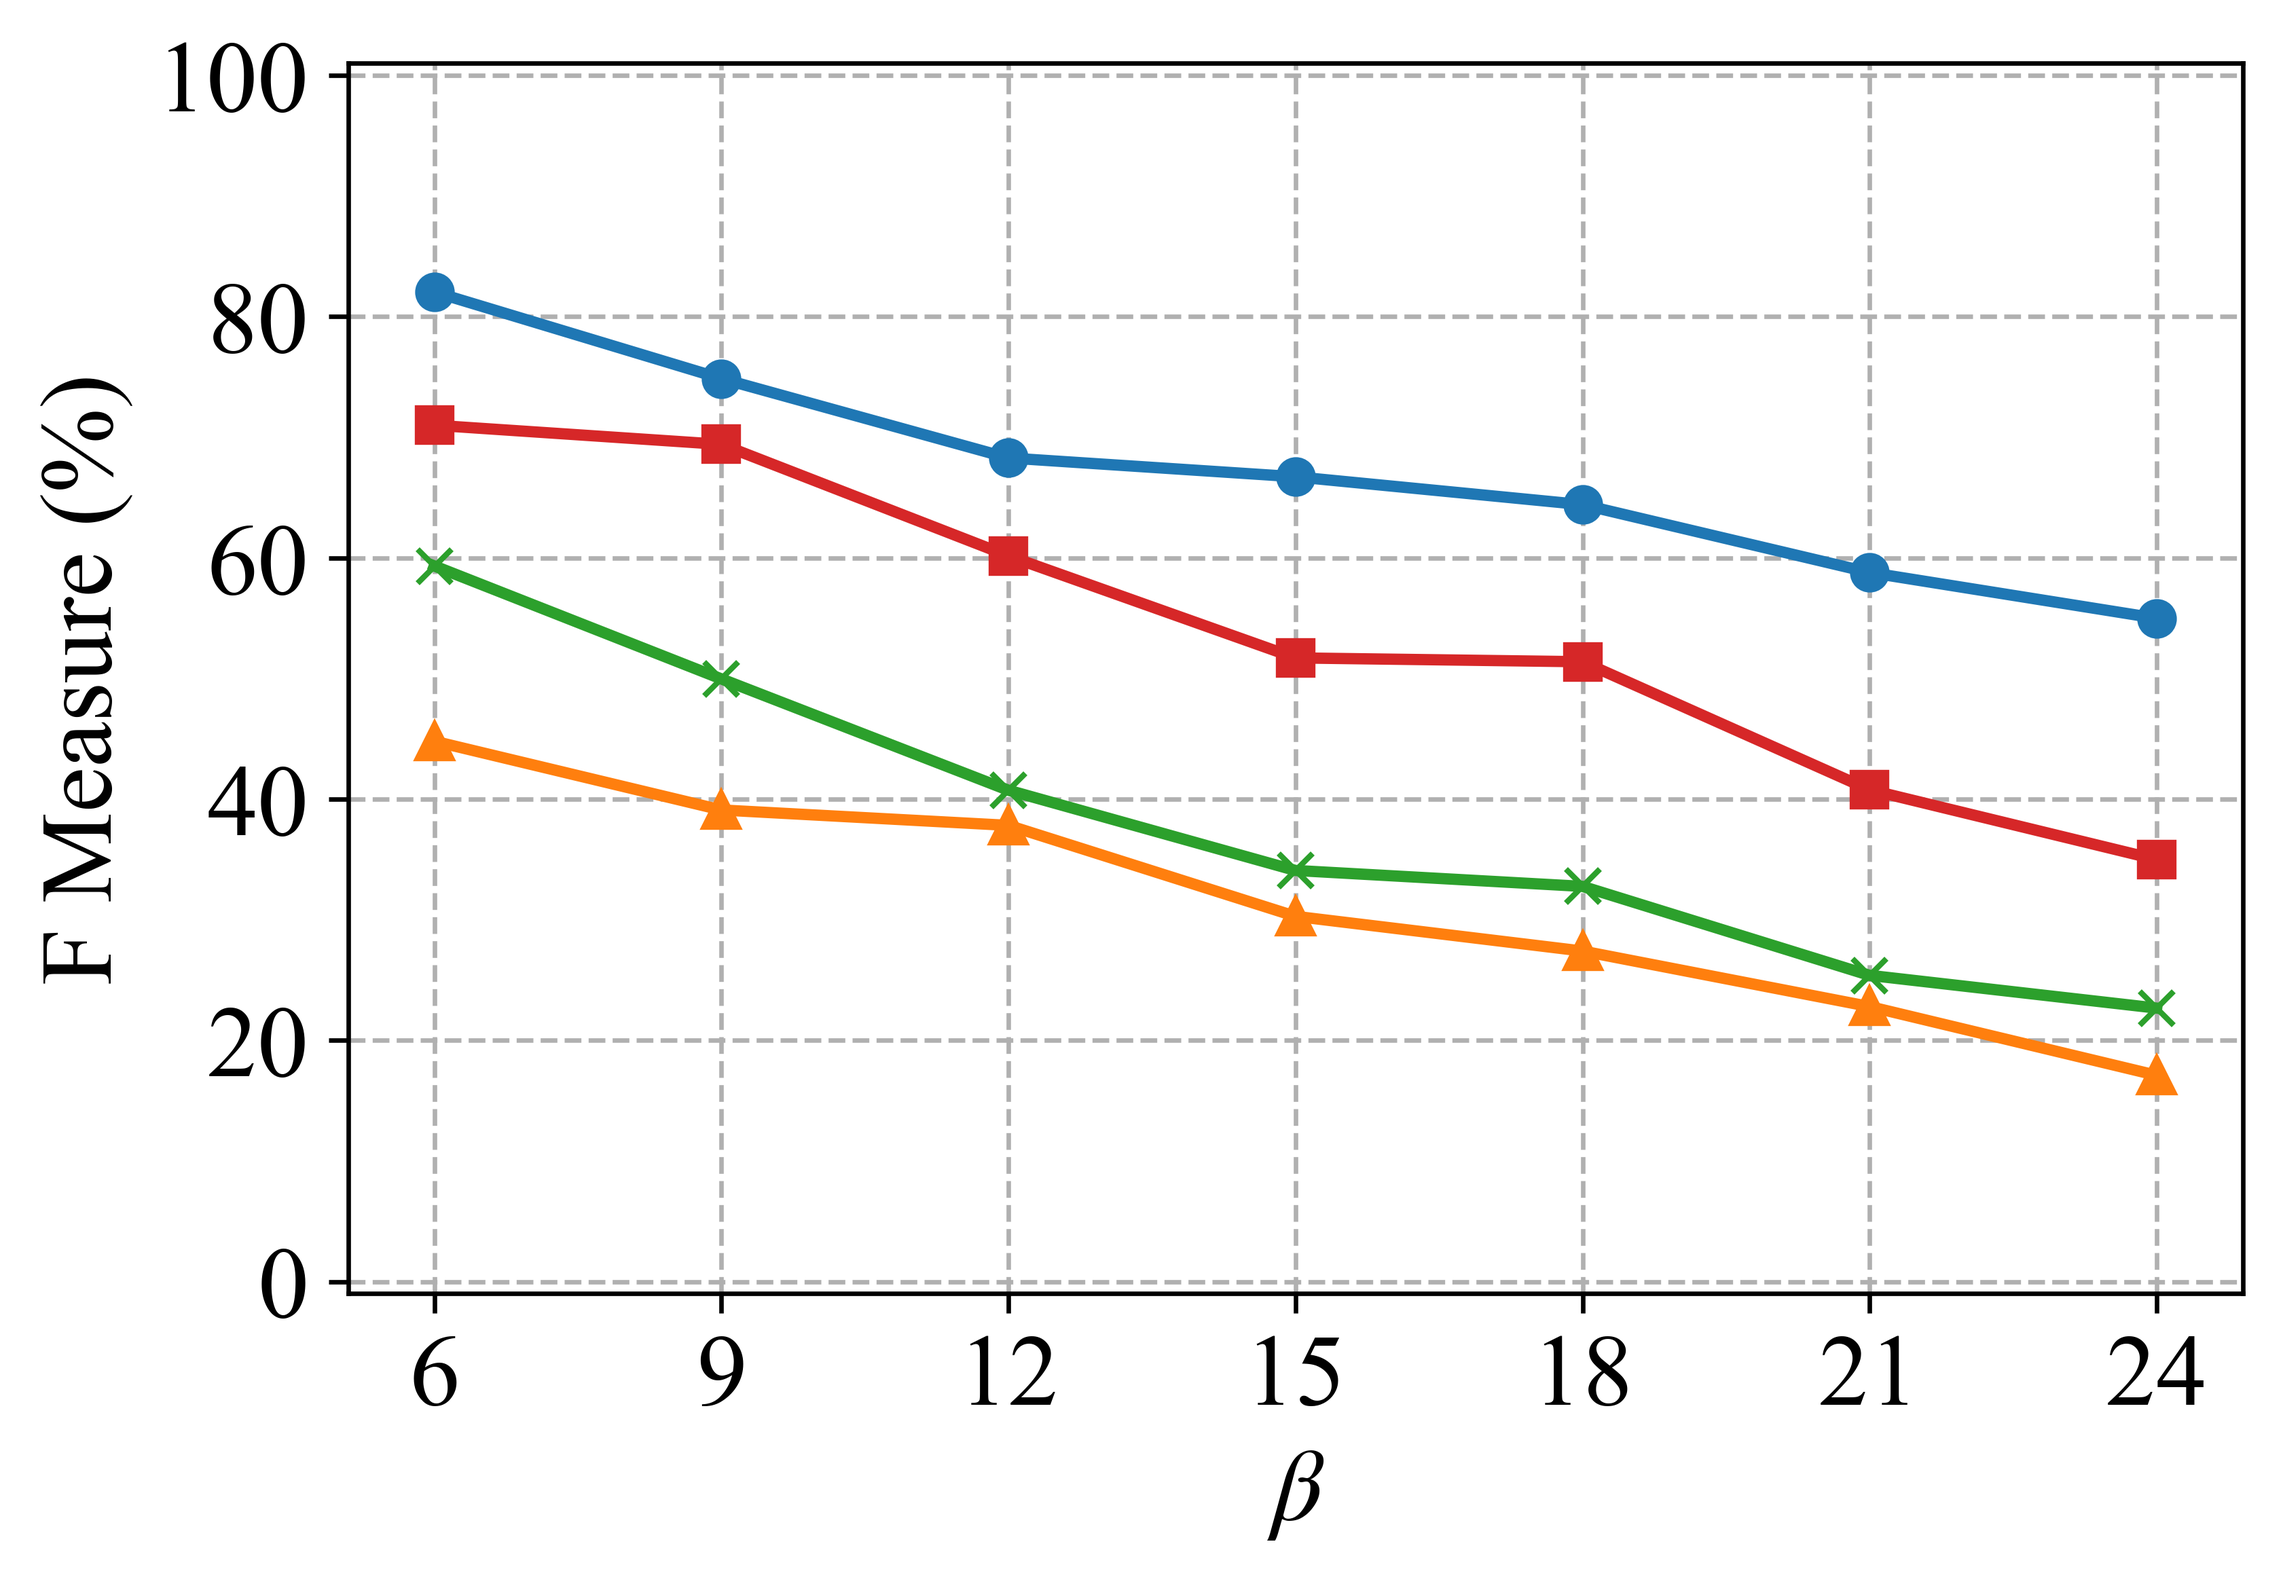
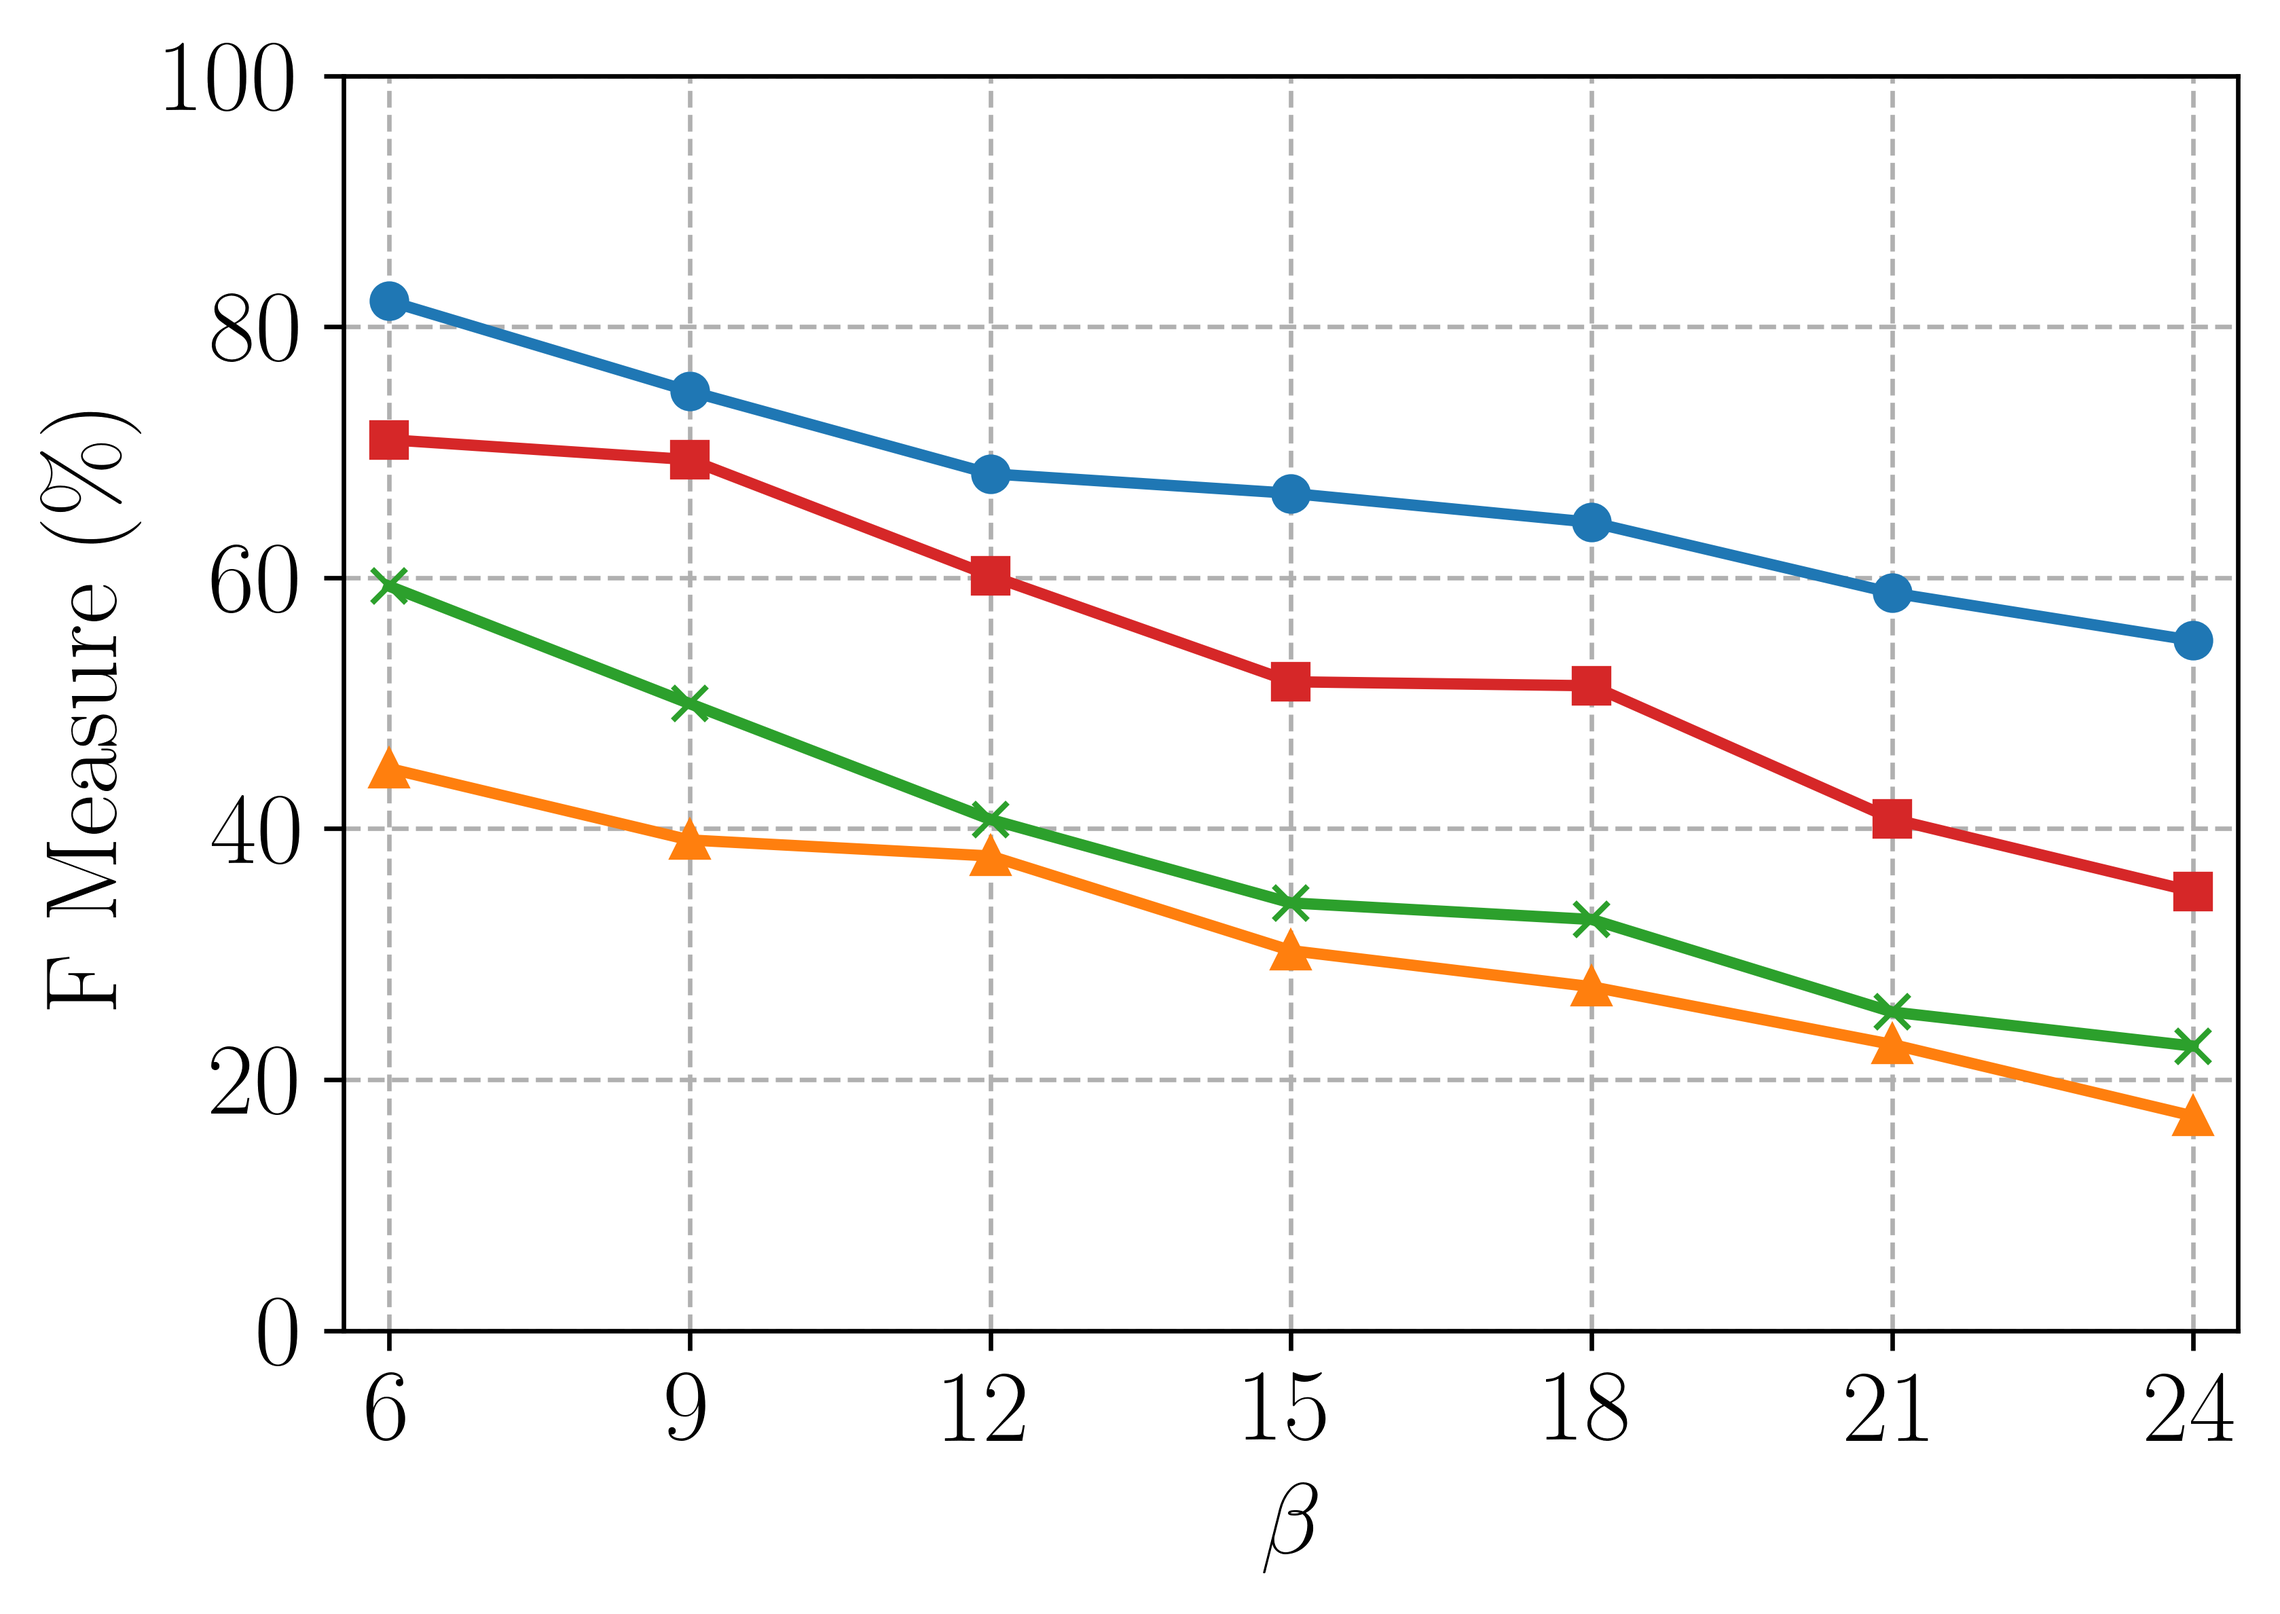
9pics parallel

diff --git a/draw.py b/draw.py
@@ -1,0 +1,137 @@
+import numpy as np
+import matplotlib.pyplot as plt
+from multiprocessing import Pool, cpu_count
+
+def plot_line_chart(args):
+    data, pic_name, xlabel, ylabel, xlim, ylim, labellist, xticks, xlimD, ylimD, yticks, legend = args
+    
+    x = data[0, :]
+    ynum = np.size(data, 0) - 1
+    y = data[1:ynum+1, :]
+    
+    plt.figure(figsize=(6, 4))
+    fig, ax = plt.subplots(figsize=(6, 4))
+    fig.patch.set_alpha(0)  # Set figure background to transparent
+    ax.patch.set_alpha(0)   # Set axes background to transparent
+    
+    markerlist = ['o', '^', 'x', 's']
+    for i in range(ynum):
+        ax.plot(x, y[i, :], label=labellist[i] if labellist else None, 
+                marker=markerlist[i], markersize=6, linewidth=2)
+
+    ax.grid(axis='both', linestyle='--', zorder=0)
+    ax.set_xlabel(xlabel)
+    ax.set_ylabel(ylabel)
+    
+    # Adjust x-axis limits to prevent edge point clipping
+    x_range = xlim - xlimD
+    ax.set_xlim(xlimD - x_range/40, xlim + x_range/40)
+    ax.set_xticks(xticks)
+    
+    ax.set_ylim(ylimD, ylim)
+    ax.set_yticks(yticks)
+    
+    ax.tick_params(axis='both', labelsize=18)
+    
+    if legend:
+        plt.rc('legend', fontsize=12)
+        ax.legend(bbox_to_anchor=(1.0, 1.2), ncol=4, fancybox=True, shadow=True)
+
+    plt.savefig(f"pic/{pic_name}.png", dpi=600, bbox_inches='tight', transparent=True)
+    plt.close(fig)
+
+def fMeasureArray(y_pre, y_recall):
+    return 2 * y_pre * y_recall / (y_pre + y_recall)
+
+def generate_plots_data(x, y_pre, y_recall, param_name, xlim, ylim, xticks, xlimD, ylimD, yticks):
+    data_pre = np.vstack((x, y_pre))
+    data_recall = np.vstack((x, y_recall))
+    y_fMeasure = fMeasureArray(y_pre, y_recall)
+    data_fMeasure = np.vstack((x, y_fMeasure))
+    
+    common_params = {
+        'xlim': xlim,
+        'ylim': ylim,
+        'labellist': ['Ours', 'Fornaciari', 'Jia', 'Shen'],
+        'xticks': xticks,
+        'xlimD': xlimD,
+        'ylimD': ylimD,
+        'yticks': yticks
+    }
+    
+    xlabel = r'$\beta$' if param_name == 'beta' else f'${param_name}$'
+    
+    return [
+        (data_pre, f'Precision_{param_name}', xlabel, r"Precision (\%)", 
+         xlim, ylim, common_params['labellist'], xticks, xlimD, ylimD, yticks, True),
+        (data_recall, f'Recall_{param_name}', xlabel, r"Recall (\%)", 
+         xlim, ylim, common_params['labellist'], xticks, xlimD, ylimD, yticks, False),
+        (data_fMeasure, f'F1_{param_name}', xlabel, r"F Measure (\%)", 
+         xlim, ylim, common_params['labellist'], xticks, xlimD, ylimD, yticks, False)
+    ]
+
+def main():
+    plt.rcParams.update({
+        "text.usetex": True,
+        "font.family": "Times New Roman",
+        "font.size": 18,
+        "mathtext.fontset": "stix",
+    })
+
+    # Beta plots
+    x_beta = np.arange(6, 25, 3)
+    y_pre_beta = np.array([
+        [88.2, 80.2, 76.6, 72.1, 69.8, 66.0, 63.5],
+        [29.6, 25.2, 24.3, 18.5, 16.6, 13.8, 9.9],
+        [63.6, 62.1, 63.0, 51.8, 42.4, 32.1, 29.8],
+        [82.7, 78.2, 69.4, 61.9, 58.7, 54.7, 51.5]
+    ])
+    y_recall_beta = np.array([
+        [76.7, 70.2, 61.6, 62.1, 59.8, 53.0, 48.5],
+        [92.1, 87.2, 85.3, 83.4, 78.5, 65.6, 62.7],
+        [55.6, 41.8, 30.1, 25.4, 26.7, 21.0, 18.3],
+        [62.2, 62.4, 53.1, 44.4, 45.7, 32.5, 26.5]
+    ])
+    beta_plots = generate_plots_data(x_beta, y_pre_beta, y_recall_beta, 'beta', 24, 100, x_beta, 6, 0, [0, 20, 40, 60, 80, 100])
+
+    # d plots
+    x_d = np.arange(0.06, 0.25, 0.03)
+    y_pre_d = np.array([
+        [81.7, 67.2, 52.6, 42.1, 21.6, 11.1, 5.6],
+        [29.6, 12.2, 3.3, 1.1, 0.9, 0.7, 0.5],
+        [63.6, 20.6, 10.3, 5.1, 3.0, 1.5, 1.0],
+        [92.2, 51.2, 25.6, 13.0, 6.5, 3.3, 1.7]
+    ])
+    y_recall_d = np.array([
+        [76.7, 50.2, 21.6, 6.1, 2.8, 1.0, 0.5],
+        [92.1, 35.2, 10.3, 3.1, 1.9, 1.7, 1.5],
+        [55.6, 11.8, 5.1, 2.4, 1.7, 1.0, 0.8],
+        [62.2, 22.4, 13.1, 4.4, 2.7, 1.5, 1.3]
+    ])
+    d_plots = generate_plots_data(x_d, y_pre_d, y_recall_d, 'd', 0.24, 100, x_d, 0.06, 0, [0, 20, 40, 60, 80, 100])
+
+    # IoU plots
+    x_iou = np.arange(0.78, 0.97, 0.02)
+    y_pre_iou = np.array([
+        [81.7, 81.2, 80.6, 80.1, 79.6, 79.1, 78.6, 78.1, 75.6, 62.1],
+        [35.6, 35.7, 34.8, 34.1, 33.4, 33.1, 29.8, 23.2, 16.6, 6.8],
+        [63.6, 63.1, 62.6, 62.1, 61.6, 61.1, 57.9, 48.1, 35.6, 17.1],
+        [88.5, 88.2, 88.1, 87.2, 87.0, 86.2, 82.8, 72.8, 62.2, 41.2]
+    ])
+    y_recall_iou = np.array([
+        [76.7, 76.2, 75.6, 75.1, 74.6, 74.1, 73.6, 73.1, 65.6, 42.1],
+        [92.1, 92.2, 91.3, 90.6, 89.9, 89.6, 86.3, 79.7, 73.1, 63.3],
+        [55.6, 55.1, 54.6, 54.1, 53.6, 53.1, 49.9, 40.1, 27.6, 9.1],
+        [62.2, 61.9, 61.8, 60.9, 60.7, 59.9, 56.5, 46.5, 35.9, 14.9]
+    ])
+    iou_plots = generate_plots_data(x_iou, y_pre_iou, y_recall_iou, 'IoU', 0.96, 100, x_iou, 0.78, 0, [0, 20, 40, 60, 80, 100])
+
+    # Combine all plot data
+    all_plots = beta_plots + d_plots + iou_plots
+
+    # Use multiprocessing to generate plots in parallel
+    with Pool(processes=min(9, cpu_count())) as pool:
+        pool.map(plot_line_chart, all_plots)
+
+if __name__ == "__main__":
+    main()
